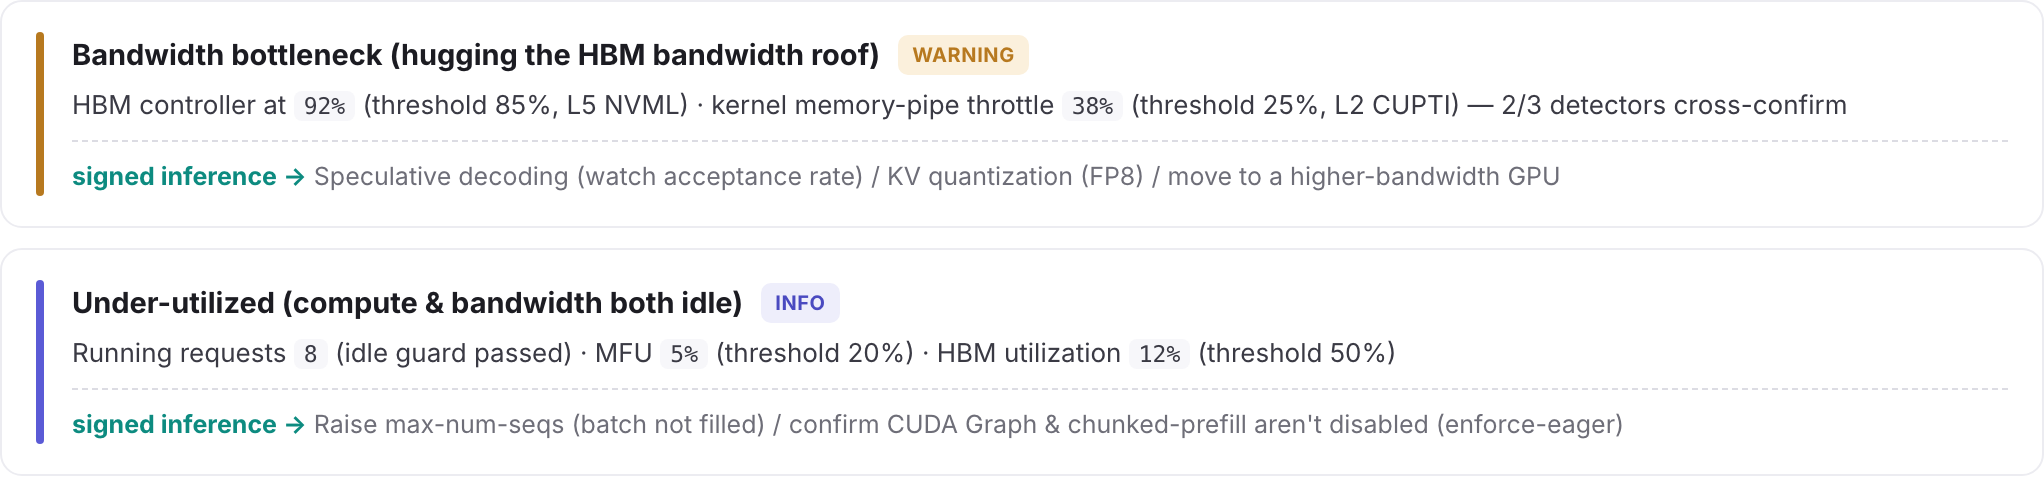
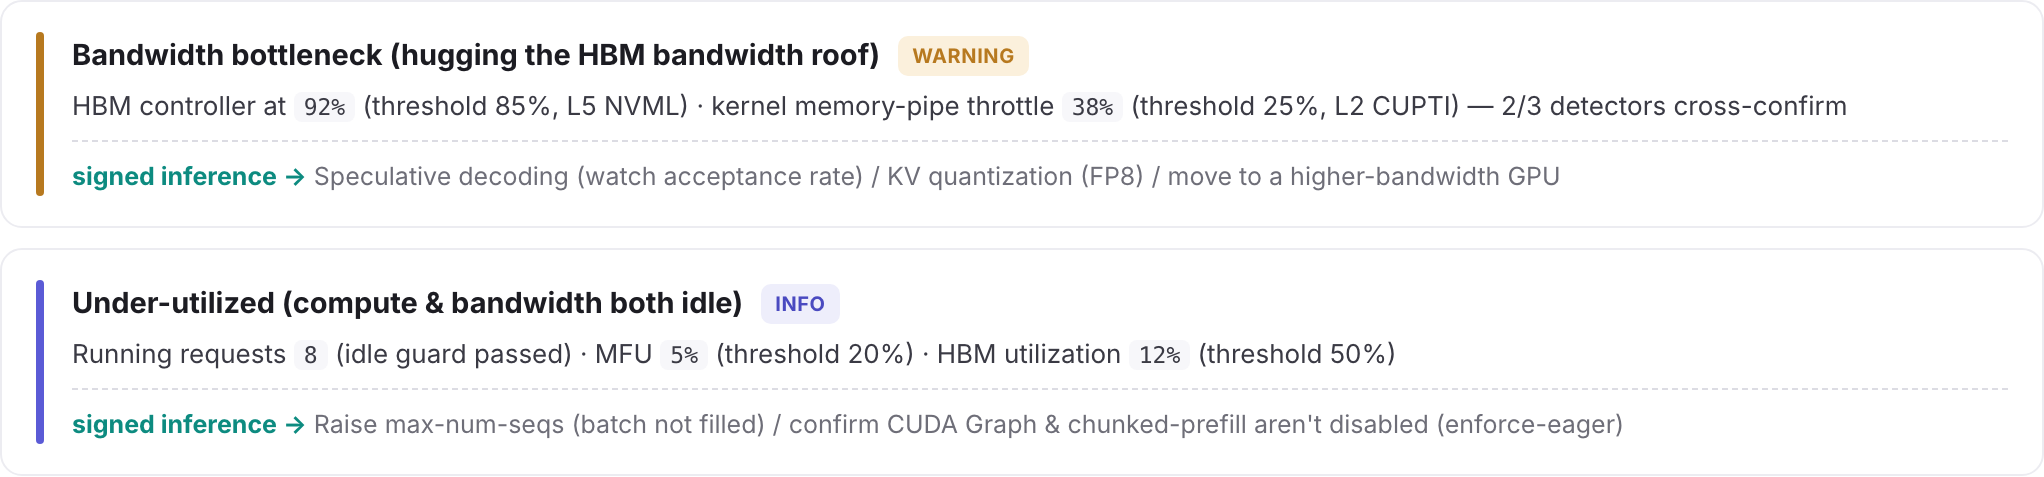
style(readme): 全文「——」改逗号，中英排版统一
README 32 处、demo docstring 1 处、showcase diag 卡片(本分支新增文案)3 处；
替换后收掉逗号两侧空格，半角逗号一并统一。diag 两图随之重拍(2×)。
英文页单个 em dash(—)为标准英文标点，不在此次范围。

diff --git a/docs/index.html b/docs/index.html
@@ -662,13 +662,13 @@ footer{border-top:1px solid var(--border);padding:48px 0 60px;margin-top:40px}
         </div>
 
         <h4 style="font-size:14px;font-weight:700;color:var(--text-strong);margin:28px 0 4px" data-i18n="diag.h">诊断结论 · 事实 + 署名推断</h4>
-        <div class="ph-sub" style="font-size:12px;color:var(--muted-2);margin-bottom:6px" data-i18n="diag.sub">内置 4 类瓶颈（双低 / 带宽 / 算力 / 容量），每类多条跨层检测手段（L1 实测 / L2 内核 stall / L3 调度态 / L5 NVML）—— 任一命中即触发，多条命中即交叉互证。下例展示规则被触发时的输出形态（本次压测系统健康，无告警）。</div>
+        <div class="ph-sub" style="font-size:12px;color:var(--muted-2);margin-bottom:6px" data-i18n="diag.sub">内置 4 类瓶颈（双低 / 带宽 / 算力 / 容量），每类多条跨层检测手段（L1 实测 / L2 内核 stall / L3 调度态 / L5 NVML），任一命中即触发，多条命中即交叉互证。下例展示规则被触发时的输出形态（本次压测系统健康，无告警）。</div>
         <div class="diag-list">
           <div class="diag warning">
             <div class="sev"></div>
             <div class="body">
               <div class="top"><span class="ttl" data-i18n="diag.e1.t">带宽瓶颈（逼近显存带宽上限）</span><span class="lvl">warning</span></div>
-              <div class="fact" data-i18n="diag.e1.f">HBM 控制器占用 <code>92%</code>（阈值 85%，L5 NVML）· 内核访存管线 throttle <code>38%</code>（阈值 25%，L2 CUPTI）—— 2/3 条手段交叉命中</div>
+              <div class="fact" data-i18n="diag.e1.f">HBM 控制器占用 <code>92%</code>（阈值 85%，L5 NVML）· 内核访存管线 throttle <code>38%</code>（阈值 25%，L2 CUPTI），2/3 条手段交叉命中</div>
               <div class="rx"><b data-i18n="diag.infer">署名推断 →</b> <span data-i18n="diag.e1.r">投机解码（关注接受率，避免转为计算受限）／ KV 量化（FP8）／ 升级更高带宽 GPU</span></div>
             </div>
           </div>
@@ -676,7 +676,7 @@ footer{border-top:1px solid var(--border);padding:48px 0 60px;margin-top:40px}
             <div class="sev"></div>
             <div class="body">
               <div class="top"><span class="ttl" data-i18n="diag.e2.t">双低（算力、带宽均有余量）</span><span class="lvl">info</span></div>
-              <div class="fact" data-i18n="diag.e2.f">在途请求 <code>8</code>（空载守卫通过）· MFU <code>5%</code>（阈值 20%）· HBM 占用 <code>12%</code>（阈值 50%）—— 算力、带宽均有余量</div>
+              <div class="fact" data-i18n="diag.e2.f">在途请求 <code>8</code>（空载守卫通过）· MFU <code>5%</code>（阈值 20%）· HBM 占用 <code>12%</code>（阈值 50%），算力、带宽均有余量</div>
               <div class="rx"><b data-i18n="diag.infer">署名推断 →</b> <span data-i18n="diag.e2.r">提高 max-num-seqs（并发未填满）／ 确认 CUDA Graph、chunked-prefill 未被 enforce-eager 关闭</span></div>
             </div>
           </div>

diff --git a/examples/embedded/demo.py b/examples/embedded/demo.py
@@ -8,7 +8,7 @@
       [推断] 显存无法容纳 KV → 并发受限 → 触发抢占。V1 抢占为纯重算(丢弃 KV、从头 re-prefill), …
       [建议] KV 量化(FP8)/ 降低 max-model-len / KV offload / 降低 max-num-seqs。
 
-(命中 D 规则的两条 L3 调度态手段：KV 池 94% ≥ 90% + 已发生抢占 —— 该层不依赖
+(命中 D 规则的两条 L3 调度态手段：KV 池 94% ≥ 90% + 已发生抢占，该层不依赖
 NVML/CUPTI，所以无 GPU 机器也能演示。A/B/C 需要 L1 实测或 L2 内核 stall，见 README。)
 
 完成后查看落盘数据（jsonl，与 demo DB 同目录）：
